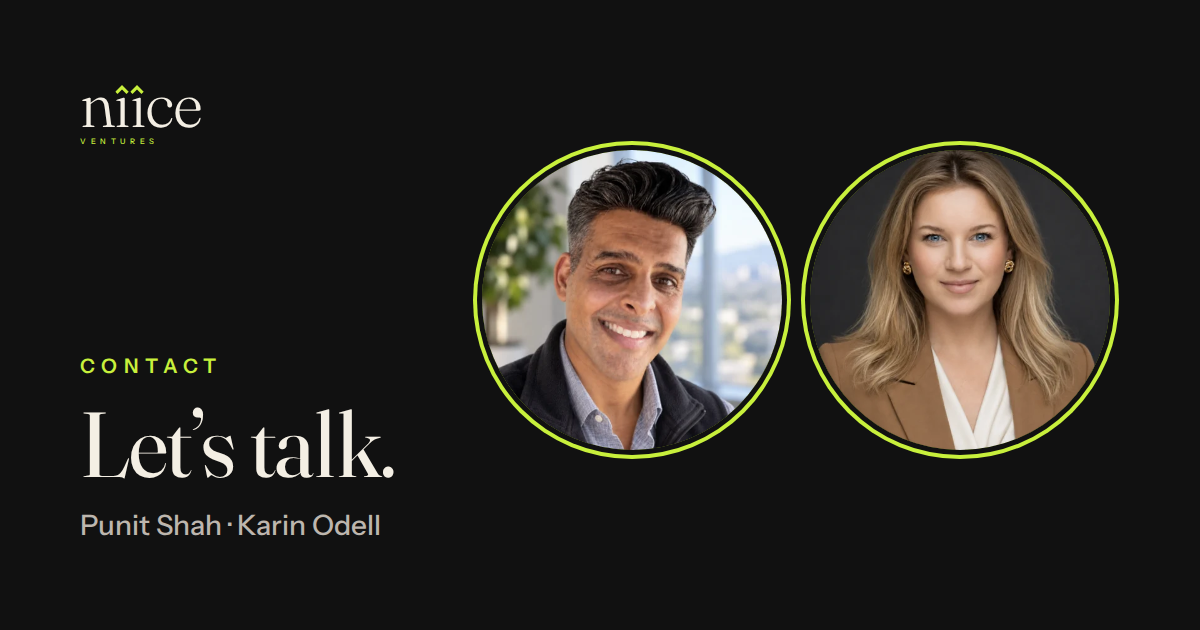
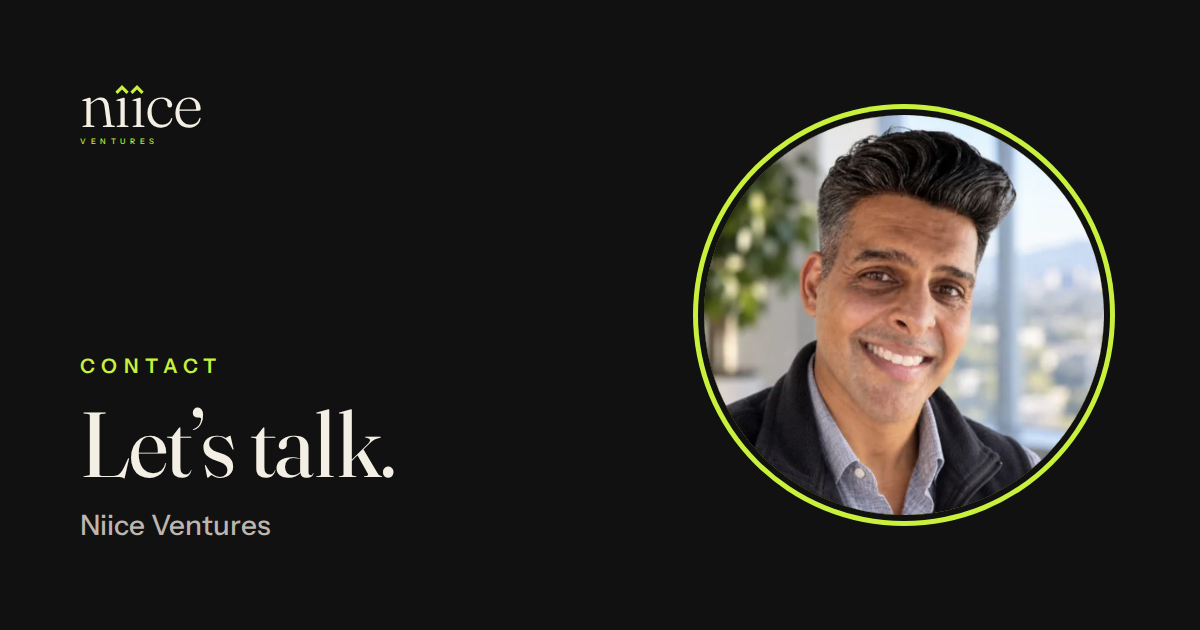
Update team and contact pages
Claude-Session: https://claude.ai/code/session_01Dr5NpbU8ty49EHFkBejysg

Changed region(s): [[0.37, 0.1508, 0.9558, 0.8444], [0.0617, 0.8143, 0.3392, 0.8746]]

diff --git a/contact/index.html b/contact/index.html
@@ -3,13 +3,13 @@
 <head>
 <meta charset="utf-8">
 <meta name="viewport" content="width=device-width, initial-scale=1">
-<title>Contact Niice Ventures · Punit Shah &amp; Karin Odell</title>
-<meta name="description" content="Talk to Niice Ventures directly. Call, text, or connect on LinkedIn with CEO Punit Shah or General Manager Karin Odell.">
+<title>Contact Niice Ventures · Punit Shah</title>
+<meta name="description" content="Talk to Niice Ventures directly. Call, text, or connect on LinkedIn with CEO Punit Shah.">
 <link rel="canonical" href="https://www.niiceventures.com/contact/">
 <meta property="og:type" content="website">
 <meta property="og:site_name" content="Niice Ventures">
 <meta property="og:title" content="Contact Niice Ventures">
-<meta property="og:description" content="Talk to Niice Ventures directly. Call, text, or connect on LinkedIn with CEO Punit Shah or General Manager Karin Odell.">
+<meta property="og:description" content="Talk to Niice Ventures directly. Call, text, or connect on LinkedIn with CEO Punit Shah.">
 <meta property="og:url" content="https://www.niiceventures.com/contact/">
 <meta property="og:image" content="https://www.niiceventures.com/og/contact.png">
 <meta property="og:image:width" content="1200">
@@ -17,7 +17,7 @@
 <meta property="og:image:alt" content="Contact Niice Ventures">
 <meta name="twitter:card" content="summary_large_image">
 <meta name="twitter:title" content="Contact Niice Ventures">
-<meta name="twitter:description" content="Talk to Niice Ventures directly. Call, text, or connect on LinkedIn with CEO Punit Shah or General Manager Karin Odell.">
+<meta name="twitter:description" content="Talk to Niice Ventures directly. Call, text, or connect on LinkedIn with CEO Punit Shah.">
 <meta name="twitter:image" content="https://www.niiceventures.com/og/contact.png">
 <meta name="theme-color" content="#111111">
 <link rel="icon" href="/favicon.svg" type="image/svg+xml">
@@ -99,10 +99,9 @@ section[id]{scroll-margin-top:84px}
 <main><div class="wrap">
 <div class="eyebrow">Contact</div>
 <h1>Let&rsquo;s talk.</h1>
-<div class="org">Reach either of us directly.</div>
+<div class="org">Reach Punit directly.</div>
 <div class="stack">
 <a class="btn primary" href="/punit/"><img class="av" src="/img/punit.webp" alt="" width="52" height="52"><span class="lbl">Punit Shah<small>CEO</small></span><svg class="go" viewBox="0 0 12 18" aria-hidden="true"><path d="M3 3l6 6-6 6"/></svg></a>
-<a class="btn primary" href="/karin/"><img class="av" src="/img/karin.webp" alt="" width="52" height="52"><span class="lbl">Karin Odell<small>General Manager</small></span><svg class="go" viewBox="0 0 12 18" aria-hidden="true"><path d="M3 3l6 6-6 6"/></svg></a>
 </div>
 <p class="tag">Nice people. Real experience.</p>
 </div></main>

diff --git a/index.html b/index.html
@@ -106,7 +106,7 @@ section{padding:112px 0;border-top:1px solid var(--line)}
 .steps p{color:var(--muted);font-size:15px}
 
 /* team */
-.team{display:grid;grid-template-columns:repeat(2,minmax(0,1fr));gap:24px}
+.team{display:grid;grid-template-columns:minmax(0,1fr);gap:24px;max-width:760px}
 .person{border:1px solid var(--line);border-radius:14px;padding:36px;display:flex;flex-direction:column;gap:12px}
 .person img{width:96px;height:96px;border-radius:50%;margin-bottom:8px}
 .person h3{font-size:32px;font-weight:300}
@@ -292,13 +292,6 @@ section[id]{scroll-margin-top:84px}
           <p>Punit is a founder and operator who has co-founded, built, acquired, and scaled eight companies. Over two decades he has served as CIO, CPO, Chief Data Scientist, and CMO, raised more than $50M in venture capital and grown to 230,000+ customers. His companies have been named a Best Place to Work six times, and he knows the road to a successful exit from both sides of the table. He is a two-time EY Entrepreneur of the Year finalist, an inductee of the UC Irvine Hall of Fame, and a member of the Forbes Technology Council.</p>
           <a href="/punit/">Contact Punit &rarr;</a>
         </article>
-        <article class="person">
-          <img src="/img/karin.webp" alt="Karin Odell" width="96" height="96">
-          <div class="role">General Manager</div>
-          <h3>Karin Odell</h3>
-          <p>Karin is a standout growth leader who builds revenue with data and clear operations. She has led global marketing teams and owned strategy and budget across paid media, SEO, and emerging acquisition channels. Her work has taken global tech brands to #1 on Google, Bing, and AI search, and the brands she has led have earned more than 50 awards on G2, TrustRadius, and Business.com. Across many verticals, she has acquired customers for less than the entire competitive field. At Niice Ventures, she leads operations for the businesses we acquire, bringing a proven growth playbook from day one.</p>
-          <a href="/karin/">Contact Karin &rarr;</a>
-        </article>
       </div>
     </div>
   </section>
@@ -322,7 +315,6 @@ section[id]{scroll-margin-top:84px}
       <p class="lead">No pressure and no obligation. Tell us a little about your business and we&rsquo;ll set up a confidential call.</p>
       <div class="cta-row">
         <a class="btn btn-primary" href="/punit/">Contact Punit Shah</a>
-        <a class="btn btn-primary" href="/karin/">Contact Karin Odell</a>
       </div>
     </div>
   </section>
